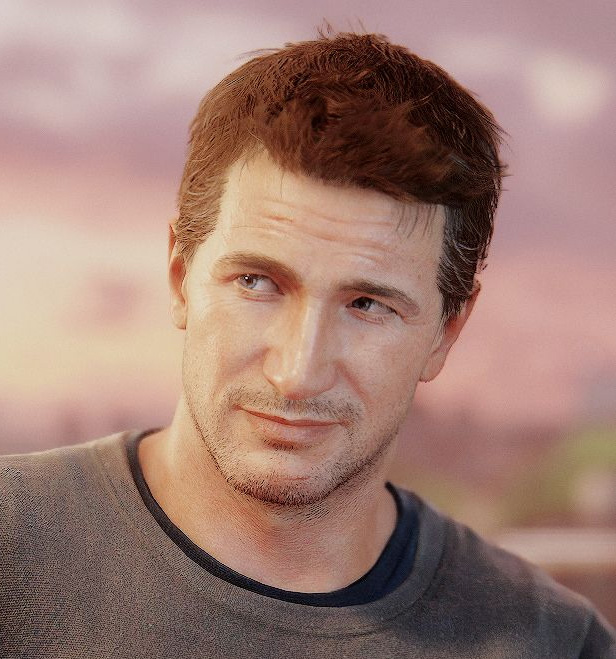
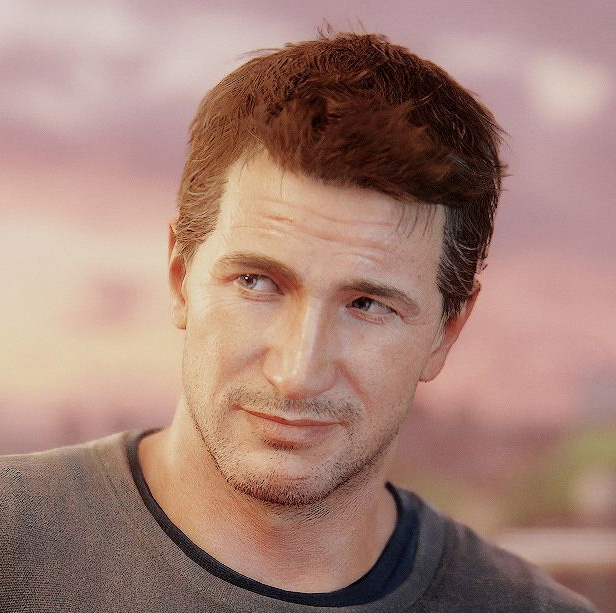
Changed font, heading, etc.
Making the text look pretty, adding background to the heading, etc.

diff --git a/css/cartoon-hero.css b/css/cartoon-hero.css
@@ -1,0 +1,44 @@
+body{
+	margin: 0;
+	font-family: helvetica, arial, sans-serif;
+
+}
+
+header {
+	background-color: #FFA07A;
+	/*background-color:  #d7a89e;*/
+	/*background-color:  #F08080;*/
+	text-align: center;
+	font-size: 30px;
+	padding-top: 50px;
+	padding-bottom: 10px; 
+}
+
+h1, h2{
+	    font-family: 'Mate SC', serif;
+}
+
+header h1 {
+	color: white;
+	font-size: 50px;
+	
+
+
+}
+
+header img{
+
+	border-radius: 700px;
+	width: 500px;
+	border: 10px solid white;
+}
+
+main{
+	max-width: 800px;
+	margin: 0 auto; /*this is a nice shortcut for centering autos*/
+	padding: 0 20px;
+}
+
+footer{
+	text-align: right;
+}

diff --git a/cartoon-hero.html b/cartoon-hero.html
@@ -3,6 +3,8 @@
 <head>
 	<title>Nathan Drake</title>
 	<link rel="icon" href="img/nathan-avatar.jpg">
+	<link href="https://fonts.googleapis.com/css2?family=Mate+SC&display=swap" rel="stylesheet"> 
+	<link rel="stylesheet" type="text/css" href="css/cartoon-hero.css">
 </head>
 <body>
 	<!-- header element -->
